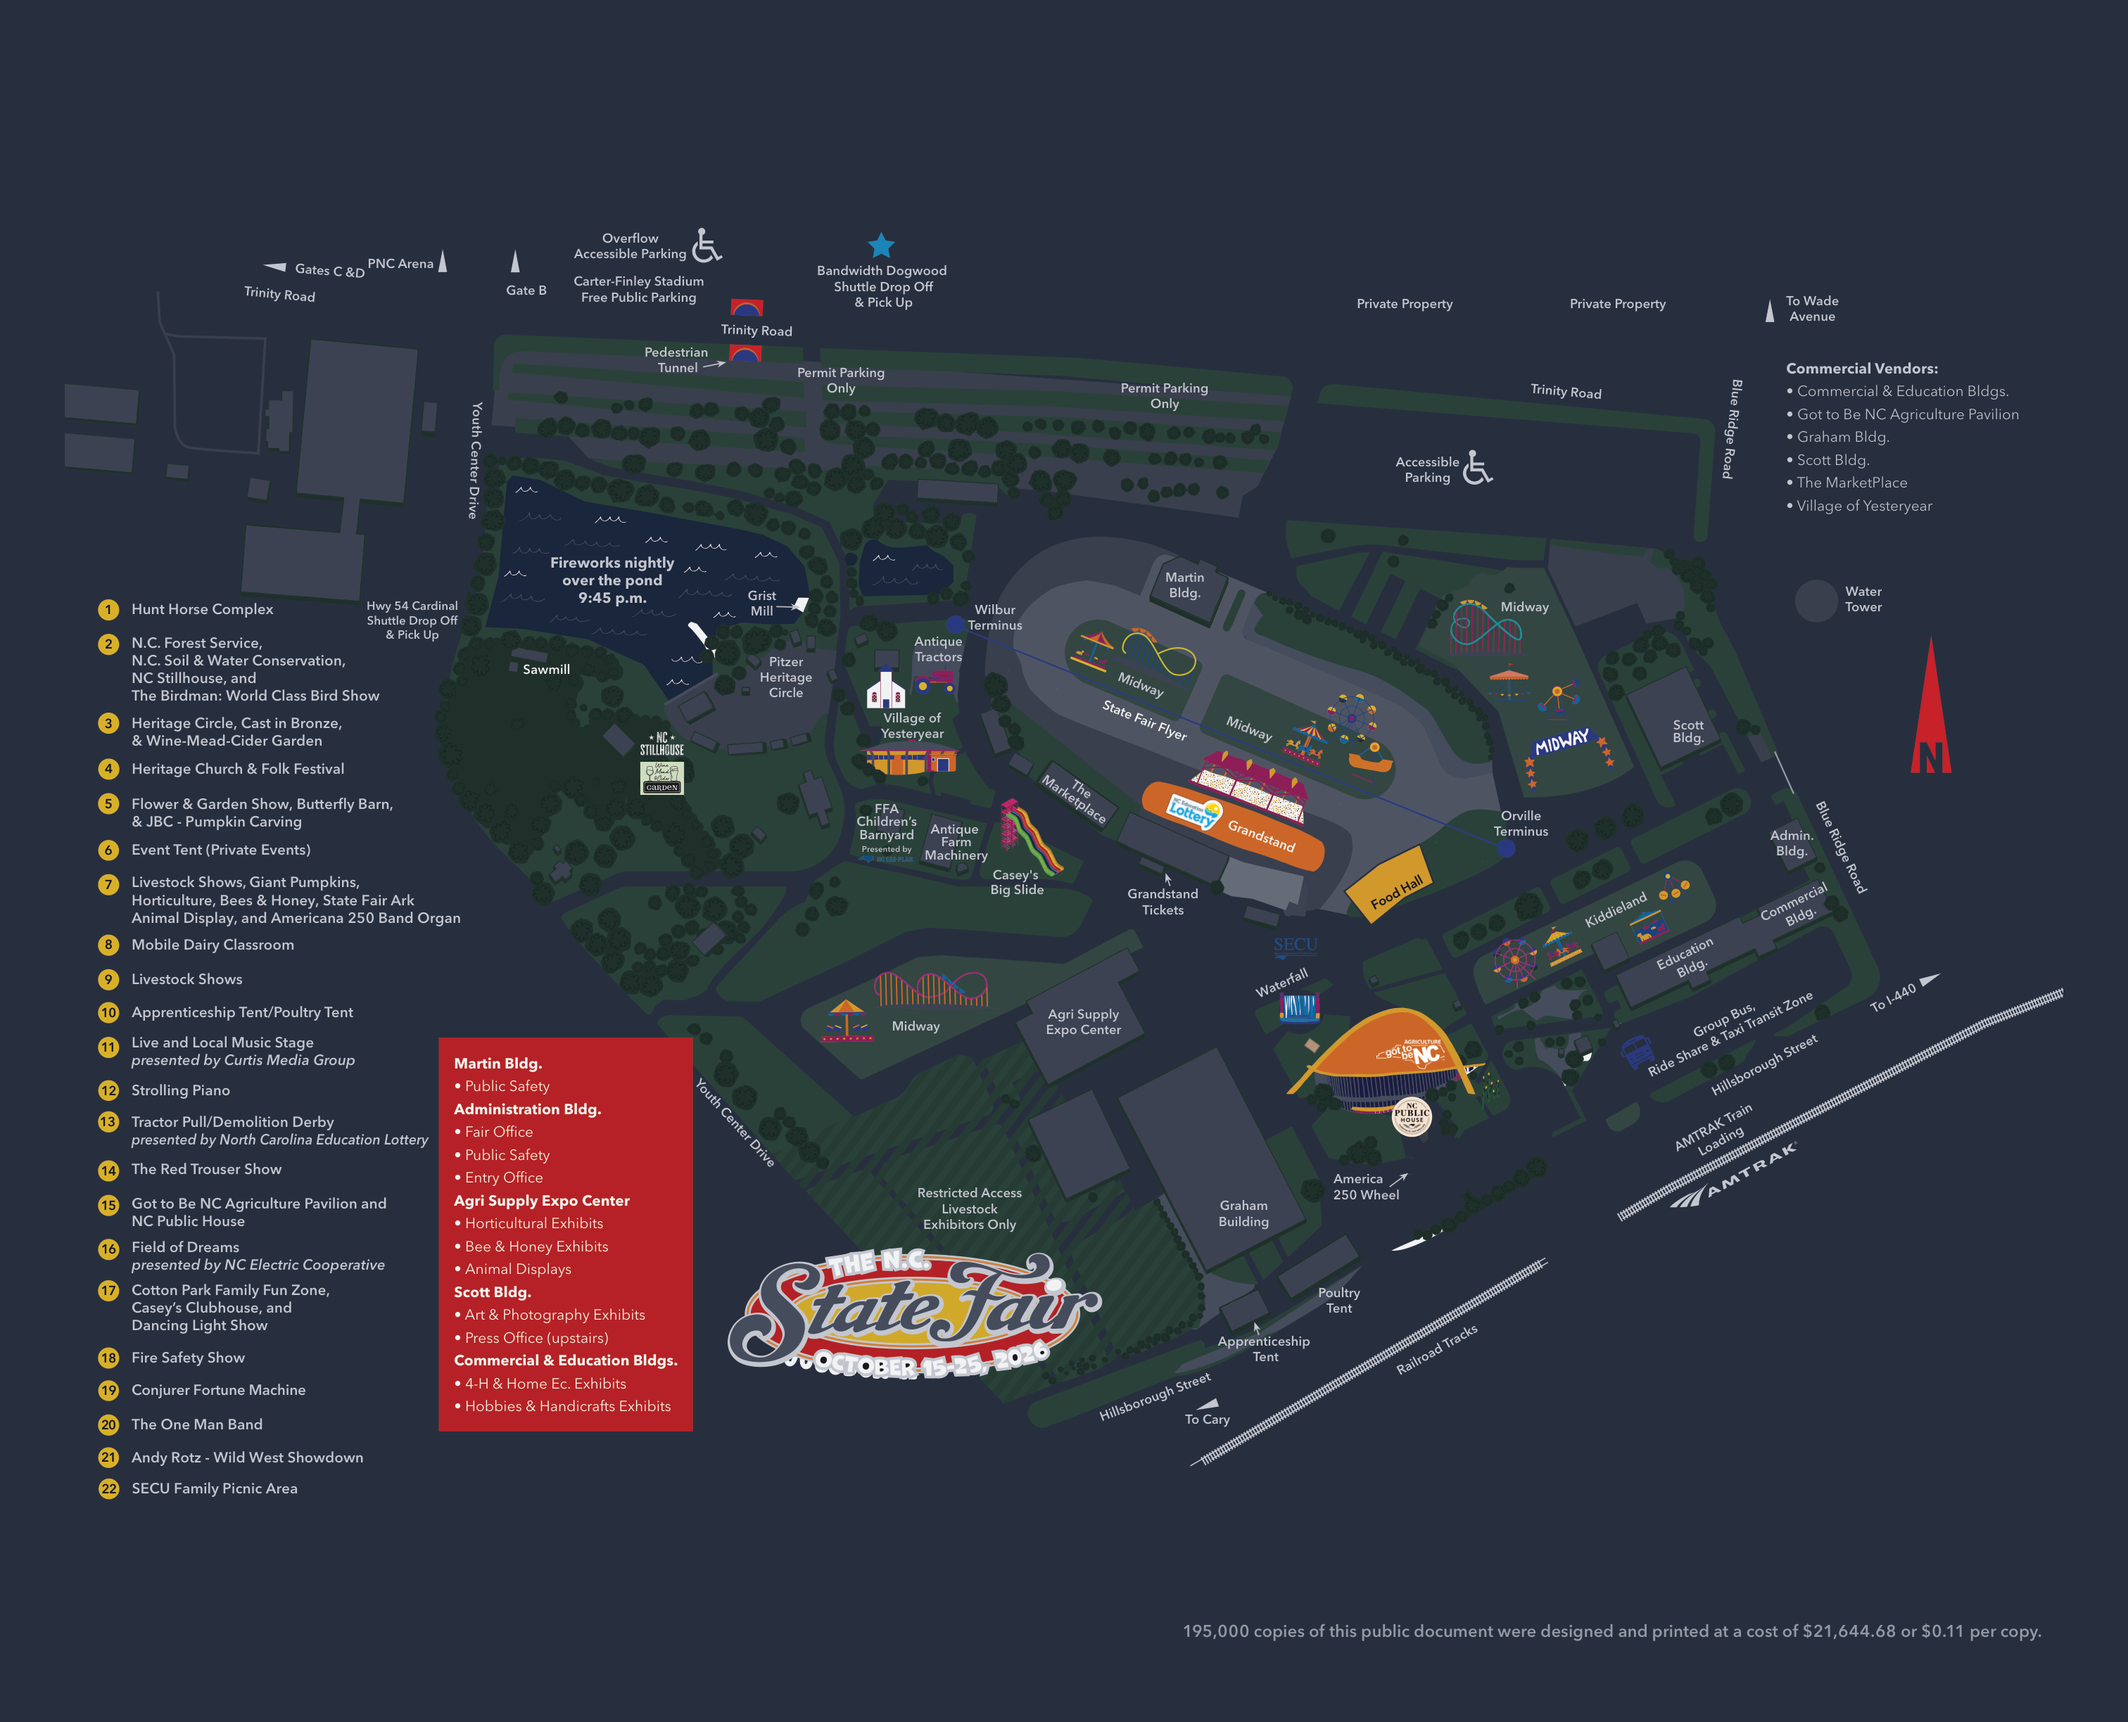
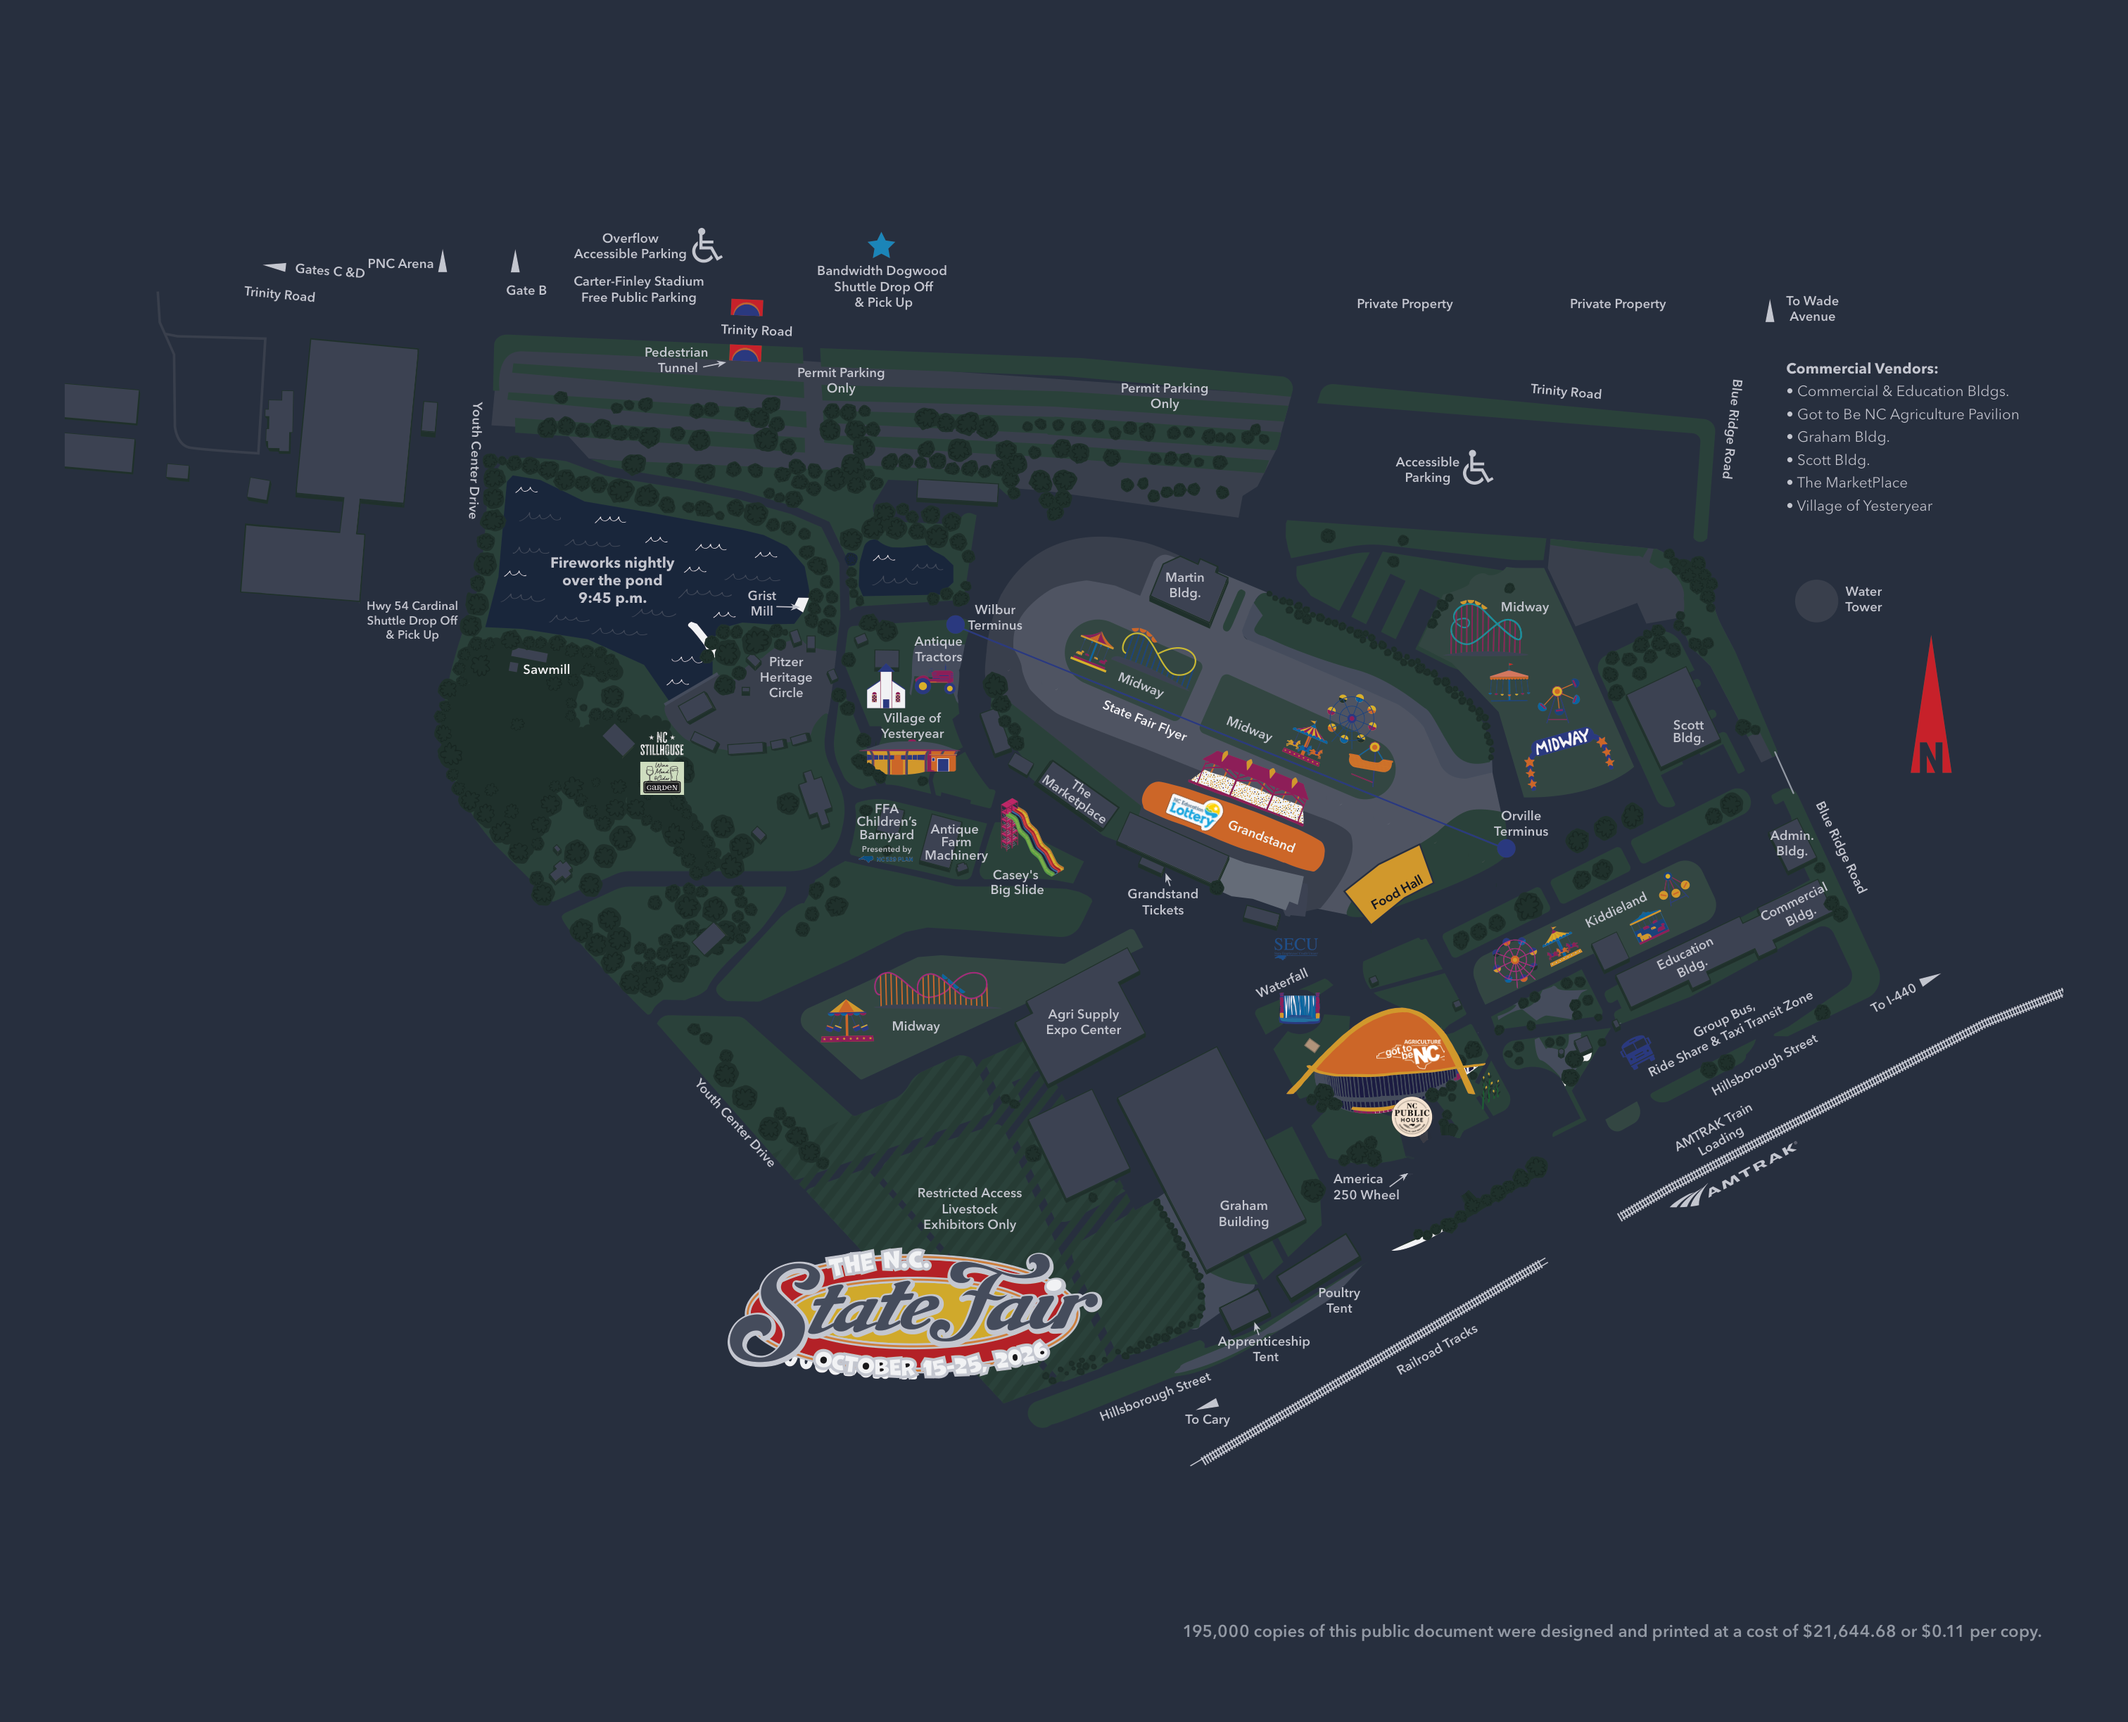
Remove printed attraction list and info box from map; collapsible interest sections; suggested order at bottom

Changed region(s): [[0.0311, 0.3415, 0.1865, 0.8693], [0.1865, 0.5899, 0.3419, 0.8382]]

diff --git a/index.html b/index.html
@@ -128,6 +128,11 @@
   #eliz-empty { margin: 6px 0 0; }
   ul.stops .drop { flex: none; border: 0; background: none; color: var(--muted); font-size: 18px; line-height: 1; cursor: pointer; padding: 0 2px; }
   ul.stops .drop:hover { color: var(--text); }
+  h3.who .fold { all: unset; cursor: pointer; display: flex; align-items: center; gap: 8px; width: 100%; }
+  h3.who .fold:focus-visible { outline: 2px solid var(--accent); outline-offset: 2px; border-radius: 4px; }
+  h3.who .chev { font-size: 11px; color: var(--muted); width: 10px; transition: transform .15s; }
+  h3.who .fold[aria-expanded="false"] .chev { transform: rotate(-90deg); }
+  h3.who .count { color: var(--muted); font-weight: 400; font-size: 14px; }
 </style>
 </head>
 <body>
@@ -141,7 +146,13 @@
       <span><i style="background:linear-gradient(90deg,#1c7ed6,#74c0fc)"></i>Elizabeth's interests (each its own blue)</span>
     </div>
     <div id="lists"></div>
-    <h2>Suggested order</h2>
+    <section class="find">
+      <h2>Find more places</h2>
+      <input type="search" id="q" placeholder="Search restrooms, ATMs, food, buildings…" autocomplete="off">
+      <div class="chips" id="chips"></div>
+      <ul id="results"></ul>
+    </section>
+    <h2 style="margin-top:24px">Suggested order</h2>
     <ol class="order">
       <li>Start with the exhibit areas: Village of Yesteryear, State Fair Ark, Children's Barnyard, Heritage Circle. They close at 9:45 PM, so do them first.</li>
       <li>Grab food along the way and at the midway.</li>
@@ -153,12 +164,6 @@
       Food pins come from the fair's
       <a href="https://www.ncagr.gov/divisions/nc-state-fair/new-fair-foods-map/open">2026 new-foods map</a>
       and are placed by hand, so treat them as close, not exact. Items marked "likely" are a best guess at the vendor.</p>
-    <section class="find">
-      <h2>Find more places</h2>
-      <input type="search" id="q" placeholder="Search restrooms, ATMs, food, buildings…" autocomplete="off">
-      <div class="chips" id="chips"></div>
-      <ul id="results"></ul>
-    </section>
     </div>
     <section class="route">
       <div class="route-head">
@@ -204,7 +209,7 @@ const groups = [
 const map = L.map('map', { crs: L.CRS.Simple, minZoom: -2, maxZoom: 1.5, zoomSnap: 0.25,
   attributionControl: false });
 const bounds = [[0, 0], [H, W]];
-L.imageOverlay('fair-map-dark.png?v=7', bounds).addTo(map);
+L.imageOverlay('fair-map-dark.png?v=8', bounds).addTo(map);
 
 // ---- Map key: each kind of icon is its own layer that can be shown or hidden ----
 const KEY = [
@@ -387,10 +392,22 @@ const pinIcon = (c, label) => L.divIcon({ className: '', iconSize: [30, 30], ico
   html: `<div class="pin" style="background:${c}"><span>${label}</span></div>` });
 let n = 0;
 const entries = [];                      // every stop that can be in the route (Matt's + Elizabeth's)
-lists.insertAdjacentHTML('beforeend', `<h3 class="who"><i style="background:${MATT}"></i>Matt's interests</h3>`);
+// Each person's section folds away from its header (remembered per browser).
+function section(id, title, swatch) {
+  lists.insertAdjacentHTML('beforeend', `<h3 class="who"><button type="button" class="fold" aria-expanded="true" aria-controls="${id}">
+    <span class="chev">▾</span><i style="background:${swatch}"></i>${title} <span class="count" id="${id}-count"></span></button></h3>
+    <div class="who-body" id="${id}"></div>`);
+  const btn = lists.querySelector(`[aria-controls="${id}"]`), body = document.getElementById(id);
+  const set = open => { body.hidden = !open; btn.setAttribute('aria-expanded', String(open));
+    try { localStorage.setItem('fold-' + id, open ? '1' : '0'); } catch (e) {} };
+  let open = true; try { open = localStorage.getItem('fold-' + id) !== '0'; } catch (e) {}
+  set(open); btn.onclick = () => set(body.hidden);
+  return body;
+}
+const mattBody = section('matt-sec', "Matt's interests", MATT);
 groups.forEach(g => {
-  const h = document.createElement('h2'); h.textContent = g.title; lists.appendChild(h);
-  const ul = document.createElement('ul'); ul.className = 'stops'; lists.appendChild(ul);
+  const h = document.createElement('h2'); h.textContent = g.title; mattBody.appendChild(h);
+  const ul = document.createElement('ul'); ul.className = 'stops'; mattBody.appendChild(ul);
   g.items.forEach(it => {
     n++;
     const c = MATT;
@@ -410,9 +427,10 @@ groups.forEach(g => {
 });
 
 // Elizabeth's interests: anything added from "Find more places". Each gets its own shade of blue.
-lists.insertAdjacentHTML('beforeend', `<h3 class="who"><i style="background:linear-gradient(90deg,#1c7ed6,#74c0fc)"></i>Elizabeth's interests</h3>
-  <p class="where" id="eliz-empty">Nothing yet. Use <b>Find more places</b> at the bottom to add things.</p>
+section('eliz-sec', "Elizabeth's interests", 'linear-gradient(90deg,#1c7ed6,#74c0fc)').insertAdjacentHTML('beforeend',
+  `<p class="where" id="eliz-empty">Nothing yet. Use <b>Find more places</b> below to add things.</p>
   <ul class="stops" id="eliz"></ul>`);
+document.getElementById('matt-sec-count').textContent = `· ${n}`;
 const elizUl = document.getElementById('eliz');
 const eliz = [];                         // Elizabeth's entries, in the order she added them
 function addToEliz(p, andSelect = true, shade) {
@@ -437,7 +455,10 @@ function dropFromEliz(p) {
   eliz.splice(eliz.indexOf(p), 1); entries.splice(entries.indexOf(p), 1);
   saveEliz(); refreshEliz(); renderResults();
 }
-function refreshEliz() { document.getElementById('eliz-empty').hidden = eliz.length > 0; }
+function refreshEliz() {
+  document.getElementById('eliz-empty').hidden = eliz.length > 0;
+  document.getElementById('eliz-sec-count').textContent = eliz.length ? `· ${eliz.length}` : '';
+}
 function saveEliz() { try { localStorage.setItem('elizInterests', JSON.stringify(eliz.map(p => [p.key, p.shade]))); } catch (e) {} }
 
 // ---- Hover: a pulsing ring shows where an item is on the map ----
